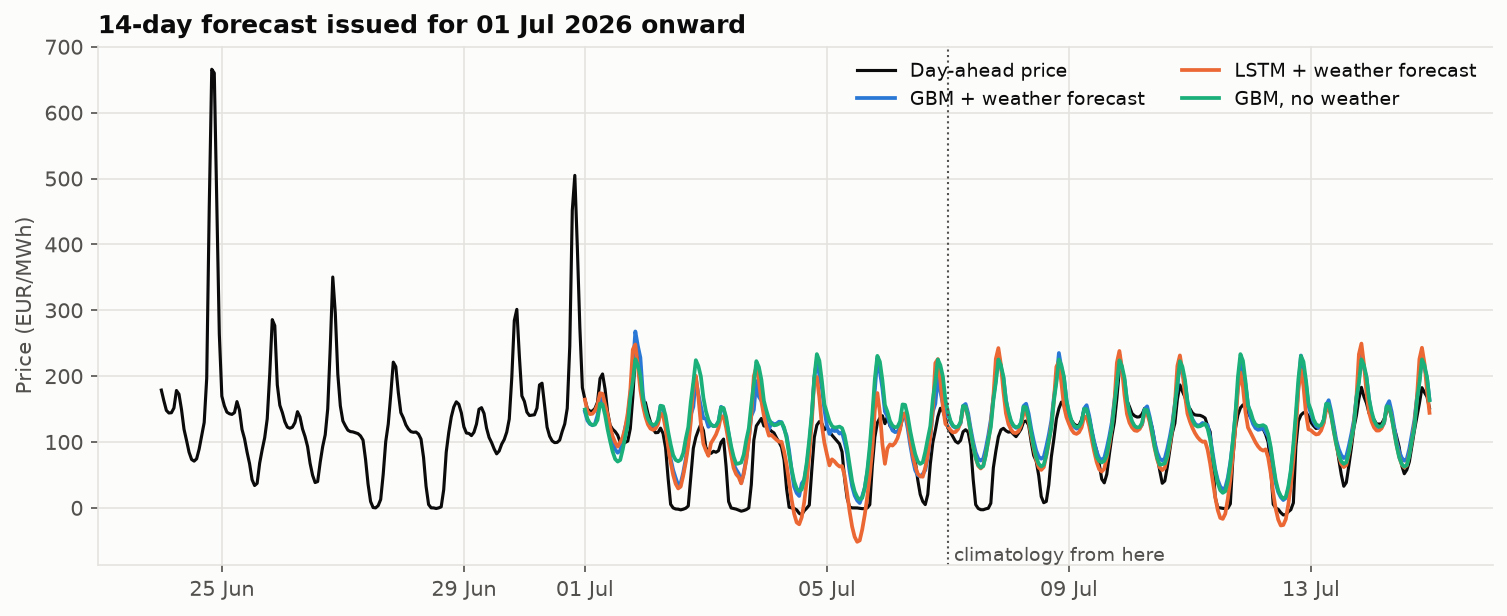
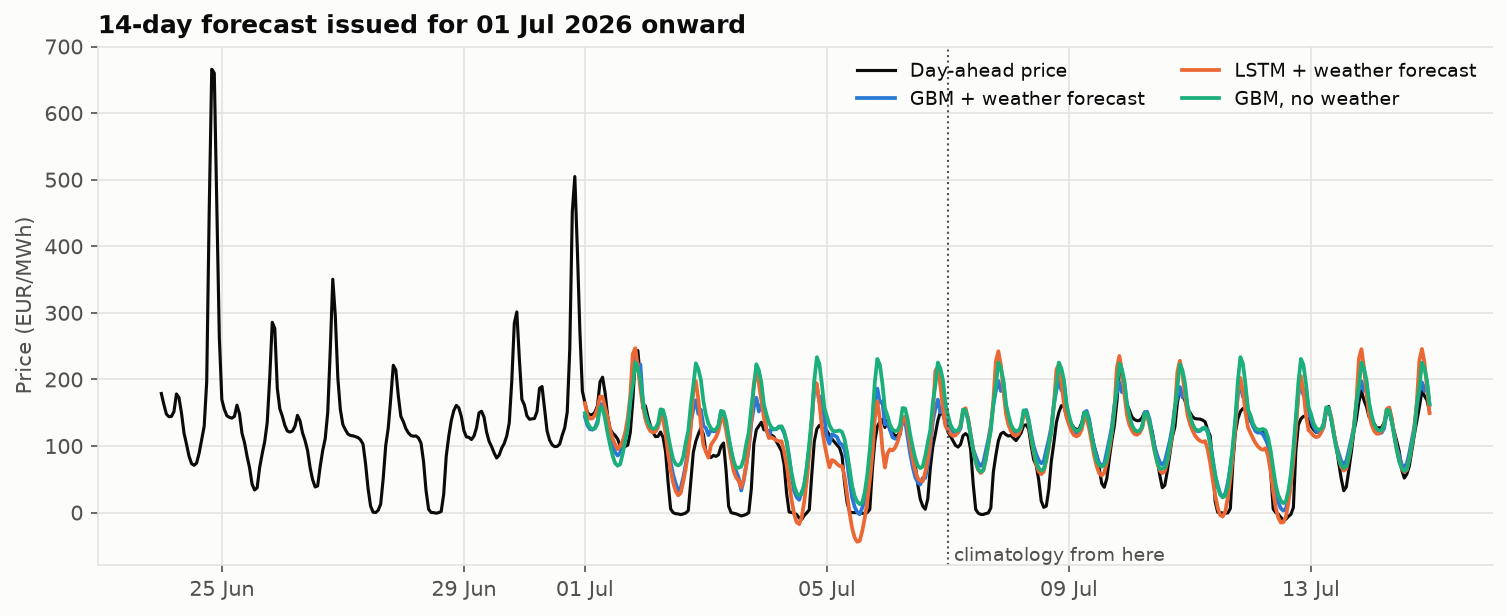
Extend history to 2015 and collect generation, load and installed capacity
Prices are stitched across the DE-AT-LU / DE-LU zone split. Backtest
figures refreshed: climatology now uses weather from 2015.

diff --git a/src/climate_power/prices.py b/src/climate_power/prices.py
@@ -1,8 +1,9 @@
 """Hourly day-ahead prices.
 
 Source: api.energy-charts.info (Fraunhofer ISE, data from SMARD / Bundesnetzagentur,
-CC BY 4.0). The German auction moved to 15-minute products on 2025-10-01; those
-are averaged to hourly so the series is consistent over time.
+CC BY 4.0). The series is stitched from the bidding zones listed in the config:
+Germany shared a zone with Austria until 2018-09-30. The German auction moved to
+15-minute products on 2025-10-01; those are averaged to hourly.
 """
 
 from __future__ import annotations
@@ -18,11 +19,19 @@ URL = "https://api.energy-charts.info/price"
 
 
 def _fetch(zone: str, start: pd.Timestamp, end: pd.Timestamp) -> pd.Series:
-    d = get_json(URL, {"bzn": zone, "start": start.strftime("%Y-%m-%d"), "end": end.strftime("%Y-%m-%d")})
-    if not d.get("unix_seconds"):
-        return pd.Series(dtype="float64")
-    s = pd.Series(d["price"], index=pd.to_datetime(d["unix_seconds"], unit="s", utc=True), dtype="float64")
-    return s.groupby(s.index.floor("h")).mean()
+    """Hourly prices for local delivery days start..end inclusive."""
+    parts = []
+    chunk = start
+    while chunk <= end:
+        chunk_end = min(chunk + pd.Timedelta(days=365), end)
+        print(f"prices {zone} {chunk.date()} -> {chunk_end.date()}", flush=True)
+        d = get_json(URL, {"bzn": zone, "start": f"{chunk:%Y-%m-%d}", "end": f"{chunk_end:%Y-%m-%d}"})
+        if d.get("unix_seconds"):
+            s = pd.Series(d["price"], index=pd.to_datetime(d["unix_seconds"], unit="s", utc=True), dtype="float64")
+            parts.append(s.groupby(s.index.floor("h")).mean())
+        chunk = chunk_end + pd.Timedelta(days=1)
+        time.sleep(2)
+    return pd.concat(parts) if parts else pd.Series(dtype="float64")
 
 
 def price_path(cfg: Config):
@@ -30,23 +39,25 @@ def price_path(cfg: Config):
 
 
 def update_prices(cfg: Config) -> pd.Series:
-    """Download missing history, refresh the last week, and return the full series."""
+    """Download whatever is missing, refresh the last week, and return the full series."""
     path = price_path(cfg)
-    zone = cfg.raw["prices"]["bidding_zone"]
     old = load_prices(cfg) if path.exists() else pd.Series(dtype="float64")
-    start = pd.Timestamp(cfg.raw["prices"]["start"])
-    if len(old):
-        start = old.index[-1].tz_localize(None).normalize() - pd.Timedelta(days=7)
-    end = pd.Timestamp.now("UTC").tz_localize(None).normalize() + pd.Timedelta(days=2)
+    today = pd.Timestamp.now("UTC").tz_localize(None).normalize()
+    have_from = old.index[0].tz_convert(cfg.timezone).tz_localize(None).normalize() if len(old) else None
+    have_to = old.index[-1].tz_localize(None).normalize() if len(old) else None
 
     parts = [old]
-    chunk = start
-    while chunk < end:
-        chunk_end = min(chunk + pd.Timedelta(days=365), end)
-        print(f"prices {zone} {chunk.date()} -> {chunk_end.date()}", flush=True)
-        parts.append(_fetch(zone, chunk, chunk_end))
-        chunk = chunk_end + pd.Timedelta(days=1)
-        time.sleep(2)
+    for seg in cfg.raw["prices"]["zones"]:
+        start = pd.Timestamp(seg["start"])
+        end = pd.Timestamp(seg["end"]) if seg.get("end") else today + pd.Timedelta(days=2)
+        if have_from is None:
+            parts.append(_fetch(seg["zone"], start, end))
+            continue
+        if start < have_from:  # history older than what is stored
+            parts.append(_fetch(seg["zone"], start, min(end, have_from)))
+        refresh = max(start, have_to - pd.Timedelta(days=7))
+        if refresh <= end:  # the recent tail
+            parts.append(_fetch(seg["zone"], refresh, end))
 
     s = pd.concat([p for p in parts if len(p)])
     s = s[~s.index.duplicated(keep="last")].sort_index().dropna()

diff --git a/src/climate_power/grid.py b/src/climate_power/grid.py
@@ -1,0 +1,71 @@
+"""Grid fundamentals: hourly generation by source, load, and installed capacity.
+
+Source: api.energy-charts.info (Fraunhofer ISE; ENTSO-E, SMARD and the
+Marktstammdatenregister underneath). Generation and load start in 2015,
+installed capacity is monthly from 2002.
+
+These are what turn weather into prices: weather sets the capacity factor,
+capacity scales it to generation, and load minus wind and solar (residual load)
+is what the price-setting plants have to cover.
+"""
+
+from __future__ import annotations
+
+import time
+
+import pandas as pd
+
+from .config import Config
+from .http import get_json
+
+BASE = "https://api.energy-charts.info/"
+
+
+def update_generation(cfg: Config) -> pd.DataFrame:
+    """Hourly mean power in MW per source, plus load. One cached file per year."""
+    country = cfg.raw["grid"]["country"]
+    cache = cfg.data_dir / "grid_chunks"
+    cache.mkdir(parents=True, exist_ok=True)
+    today = pd.Timestamp.now("UTC").tz_localize(None).normalize()
+    frames = []
+    for year in range(pd.Timestamp(cfg.raw["grid"]["start"]).year, today.year + 1):
+        path = cache / f"{year}.parquet"
+        settled = today > pd.Timestamp(year + 1, 2, 1)  # recent values still get revised
+        if path.exists() and settled:
+            frames.append(pd.read_parquet(path))
+            continue
+        print(f"generation {country} {year}", flush=True)
+        end = min(pd.Timestamp(year, 12, 31), today)
+        d = get_json(BASE + "public_power", {"country": country, "start": f"{year}-01-01", "end": f"{end:%Y-%m-%d}"})
+        index = pd.to_datetime(d["unix_seconds"], unit="s", utc=True)
+        df = pd.DataFrame({p["name"]: p["data"] for p in d["production_types"]}, index=index).astype("float64")
+        df = df.groupby(df.index.floor("h")).mean()
+        df.index.name = "time"
+        df.to_parquet(path)
+        frames.append(df)
+        time.sleep(5)
+    df = pd.concat(frames).sort_index()
+    df = df[~df.index.duplicated(keep="last")]
+    df.to_parquet(cfg.data_dir / "generation.parquet")
+    return df
+
+
+def update_capacity(cfg: Config) -> pd.DataFrame:
+    """Installed capacity in GW at each month start."""
+    d = get_json(
+        BASE + "installed_power",
+        {"country": cfg.raw["grid"]["country"], "time_step": "monthly", "installation_decommission": "false"},
+    )
+    index = pd.to_datetime(d["time"], format="%m.%Y")
+    df = pd.DataFrame({p["name"]: p["data"] for p in d["production_types"]}, index=index).astype("float64")
+    df.index.name = "month"
+    df.to_parquet(cfg.data_dir / "capacity.parquet")
+    return df
+
+
+def load_generation(cfg: Config) -> pd.DataFrame:
+    return pd.read_parquet(cfg.data_dir / "generation.parquet")
+
+
+def load_capacity(cfg: Config) -> pd.DataFrame:
+    return pd.read_parquet(cfg.data_dir / "capacity.parquet")

diff --git a/src/climate_power/cli.py b/src/climate_power/cli.py
@@ -9,7 +9,7 @@ def main() -> None:
     parser = argparse.ArgumentParser(prog="climate-power", description=__doc__)
     parser.add_argument("--config", default="config/de_lu.yaml")
     sub = parser.add_subparsers(dest="command", required=True)
-    sub.add_parser("fetch", help="download / refresh prices, weather history and archived forecasts")
+    sub.add_parser("fetch", help="download / refresh prices, grid data, weather history and archived forecasts")
     sub.add_parser("snapshot", help="save the current 16-day weather forecast")
     p = sub.add_parser("backtest", help="train all models and evaluate them on the test period")
     p.add_argument("--skip-lstm", action="store_true")
@@ -18,10 +18,14 @@ def main() -> None:
     cfg = load_config(args.config)
 
     if args.command == "fetch":
-        from . import prices, weather
+        from . import grid, prices, weather
 
         s = prices.update_prices(cfg)
         print(f"prices: {len(s):,} hours, {s.index[0]} -> {s.index[-1]}")
+        g = grid.update_generation(cfg)
+        print(f"generation and load: {g.shape}, {g.index[0]} -> {g.index[-1]}")
+        c = grid.update_capacity(cfg)
+        print(f"installed capacity: {c.shape}, {c.index[0].date()} -> {c.index[-1].date()}")
         a = weather.update_actual(cfg)
         print(f"weather actual: {a.shape}, -> {a.index[-1]}")
         f = weather.update_forecast_archive(cfg)

diff --git a/README.md b/README.md
@@ -14,9 +14,9 @@ price over 2026 was about 120.
 
 | Model | All 14 days | Days 1-6 | Days 7-14 | vs naive |
 |---|---|---|---|---|
-| GBM + observed weather (upper bound) | 22.0 | 22.1 | 22.0 | 0.50 |
-| **LSTM + weather forecast** | 30.6 | 27.0 | 33.3 | 0.70 |
-| **GBM + weather forecast** | 31.8 | 29.4 | 33.6 | 0.72 |
+| GBM + observed weather (upper bound) | 21.9 | 21.9 | 22.0 | 0.50 |
+| **LSTM + weather forecast** | 30.7 | 27.1 | 33.4 | 0.70 |
+| **GBM + weather forecast** | 31.2 | 28.4 | 33.2 | 0.71 |
 | GBM, calendar and price history only | 34.6 | 34.0 | 35.1 | 0.79 |
 | 7-day hourly profile | 40.5 | 40.2 | 40.7 | 0.92 |
 | Same hour last week | 43.9 | 45.5 | 42.7 | 1.00 |
@@ -41,10 +41,16 @@ revision, picked without looking at the outcome):
 
 | What | Source | Coverage |
 |---|---|---|
-| Day-ahead prices | [energy-charts.info](https://api.energy-charts.info) (Fraunhofer ISE, from SMARD) | hourly from Oct 2018; 15-minute prices since Oct 2025 are averaged to hourly |
-| Observed weather | [Open-Meteo](https://open-meteo.com) archive API (reanalysis) | hourly from Oct 2018 |
+| Day-ahead prices | [energy-charts.info](https://api.energy-charts.info) (Fraunhofer ISE, from SMARD) | hourly from Jan 2015 (joint zone with Austria until Sep 2018); 15-minute prices since Oct 2025 are averaged to hourly |
+| Generation by source, load | energy-charts.info | hourly from Jan 2015 |
+| Installed wind, solar, battery capacity | energy-charts.info | monthly from 2002 |
+| Observed weather | [Open-Meteo](https://open-meteo.com) archive API (reanalysis) | hourly from Jan 2015 (available back to the 1940s) |
 | Past weather forecasts | Open-Meteo previous-runs API, GFS | what the model predicted 1-7 days before each hour, from Apr 2024 |
 | Live weather forecast | Open-Meteo forecast API, GFS | 16 days ahead; every download is kept as a snapshot |
+
+The models currently train on April 2024 onward, because that is where the
+archive of past weather forecasts starts. Generation, load and capacity are
+collected but not yet used by the models.
 
 Weather is pulled at 14 points and reduced to four national drivers: a wind
 capacity-factor proxy (100 m wind through a generic turbine power curve, six
@@ -109,6 +115,11 @@ Data and trained models are written to `data/` and `models/` and are not committ
 ## Ideas for next steps
 
 - Bring back the Fourier representative-day model as a baseline and as features.
-- Predict wind, solar and load first, then price from residual load.
+- Predict wind, solar and load first, then price from residual load. This stage
+  needs only observed weather, so it can train on the full history from 2015 with
+  installed capacity as an input.
+- Real 16-day forecast history from NOAA GEFS (reforecasts 2000-2019 and
+  operational runs from 2017 on AWS), to train lead-specific models before 2024
+  and to cover days 7-14.
 - Quantile outputs for prediction intervals.
 - Use an ensemble weather forecast so the model sees forecast uncertainty.
